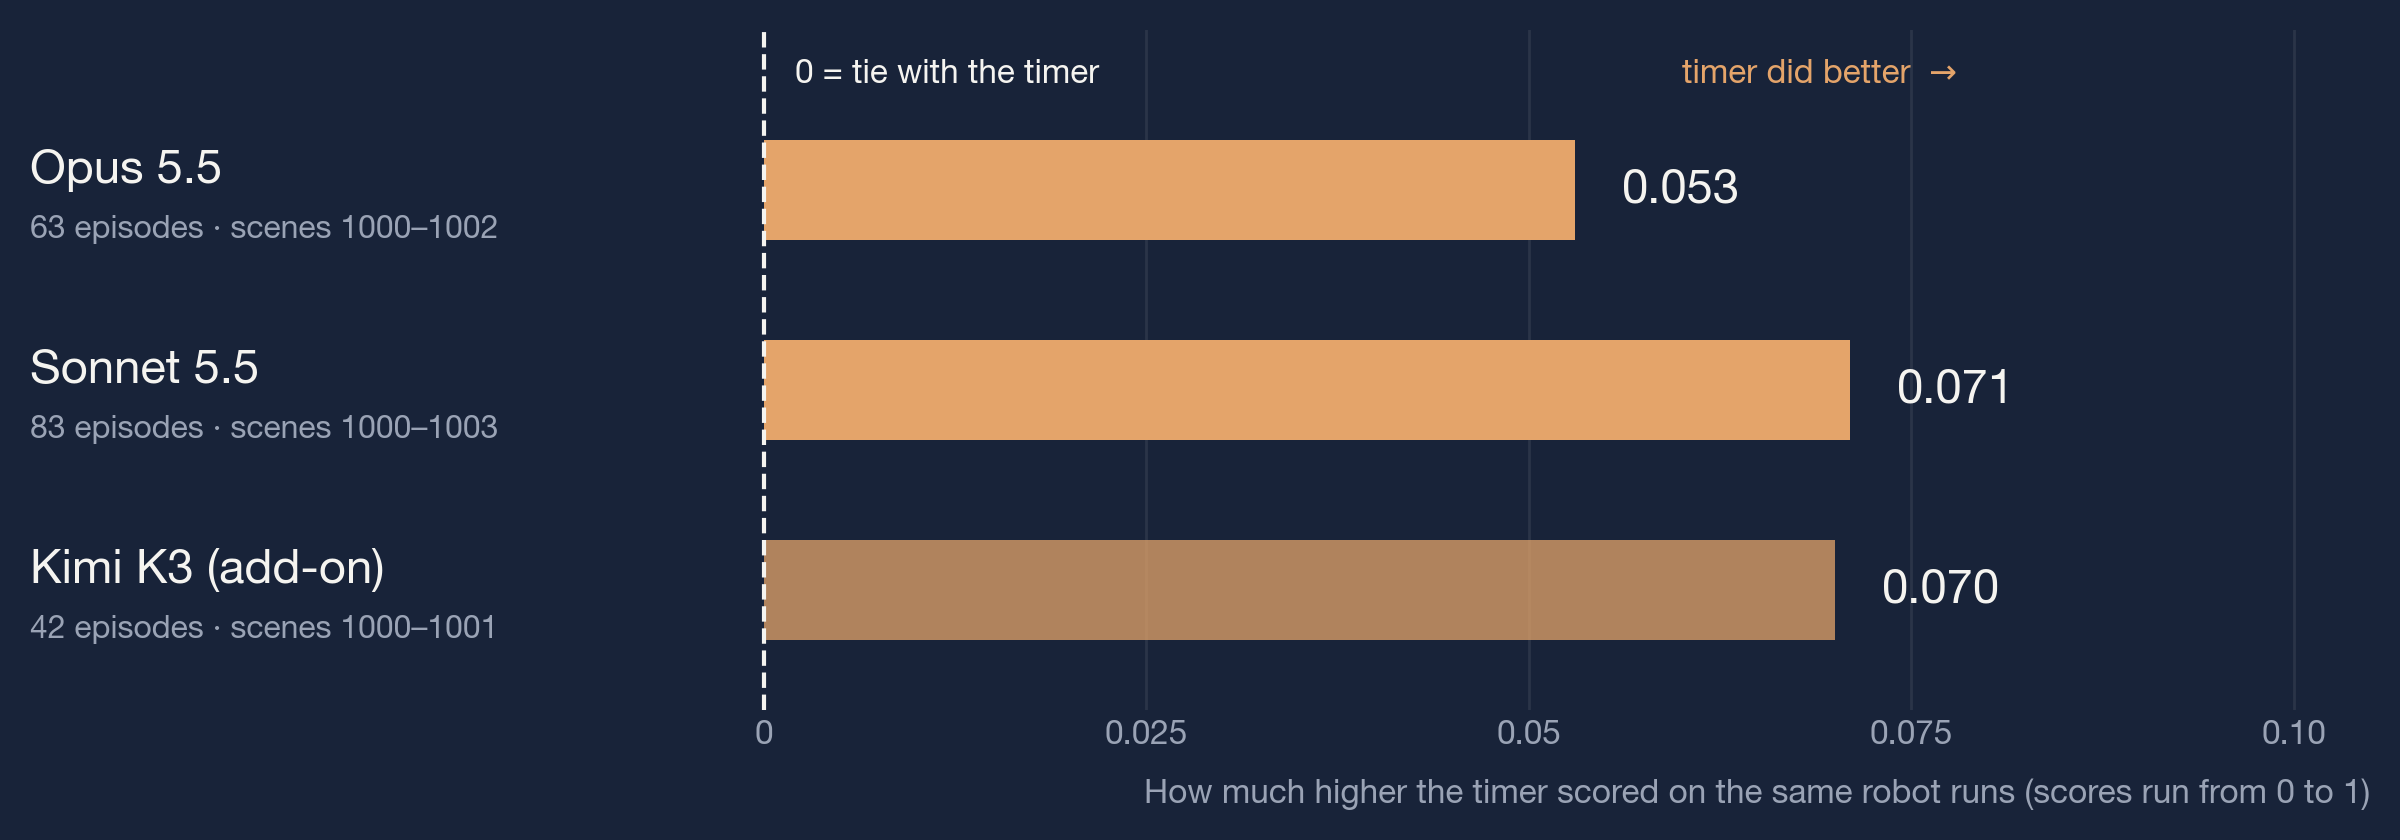
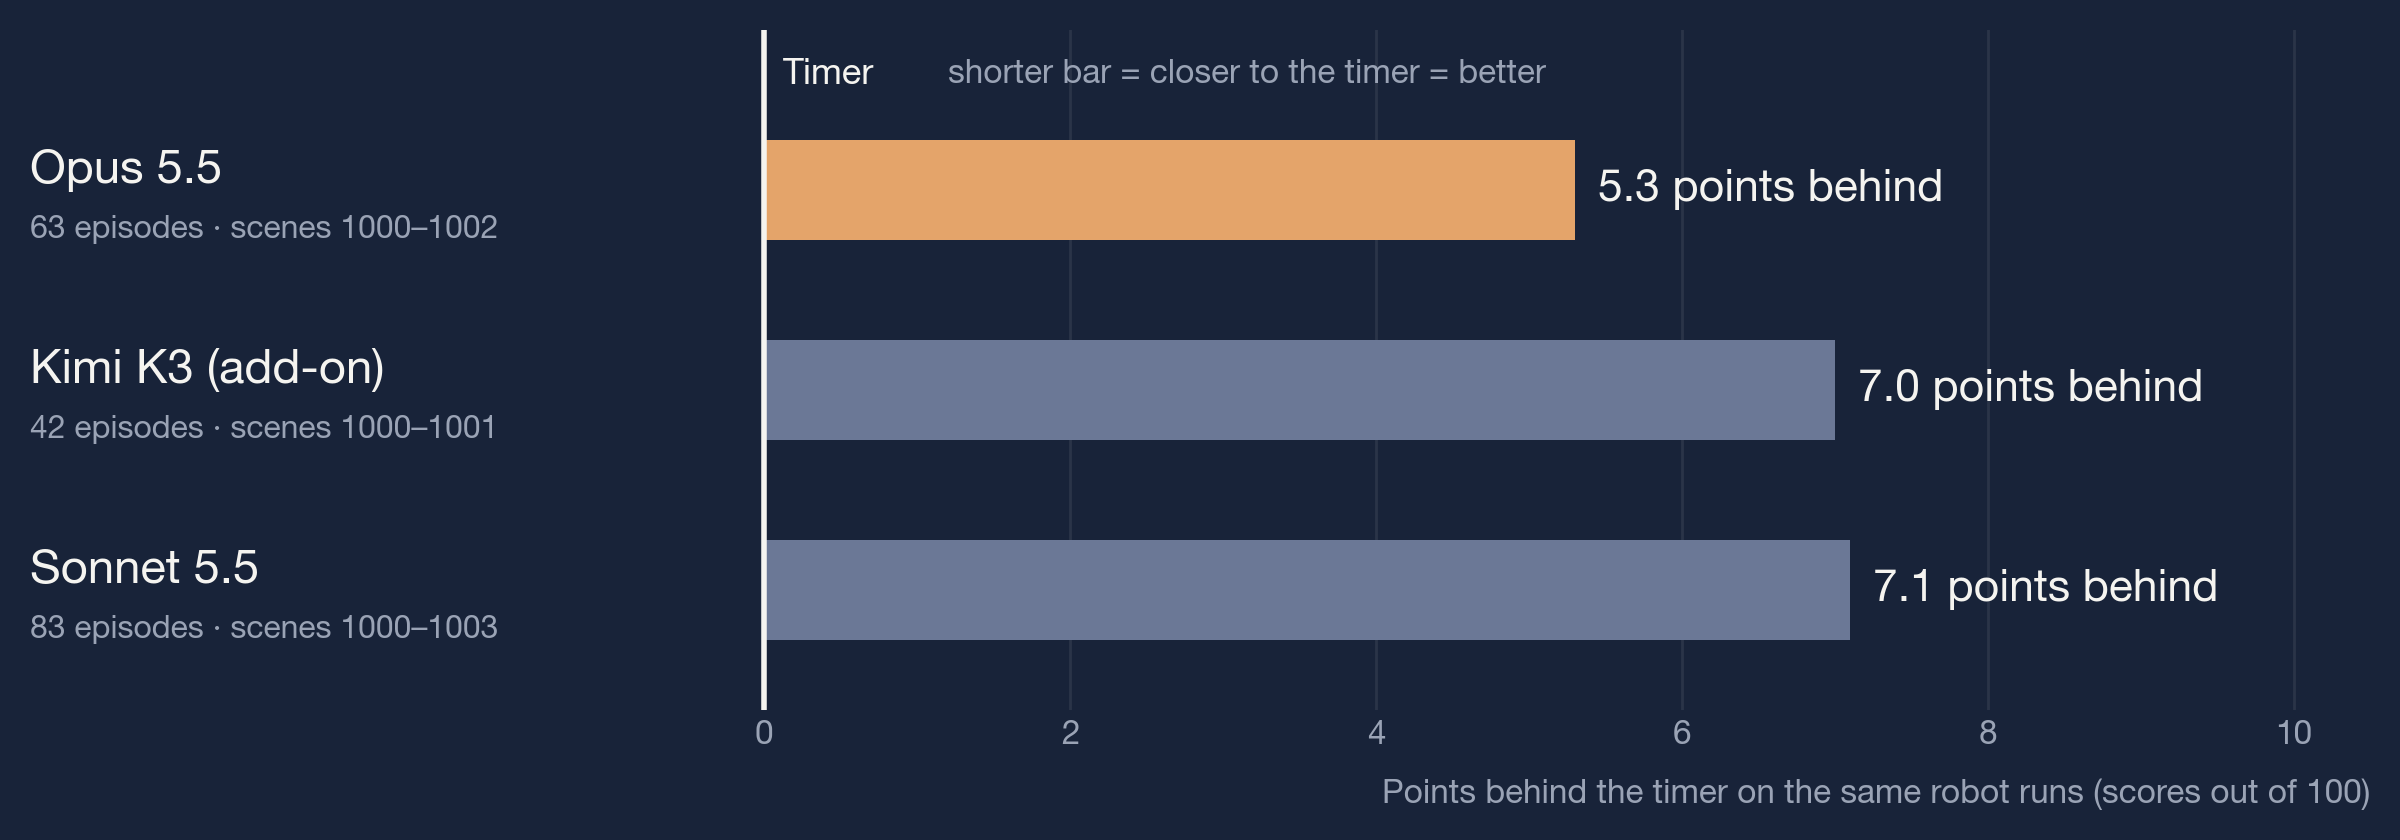
Slide figure: points behind the timer out of 100, best first

diff --git a/scripts/plot_final_regret.py b/scripts/plot_final_regret.py
@@ -1,7 +1,7 @@
 #!/usr/bin/env python3
-"""Draw the main-result slide figure: how much higher the fixed declaration rule scored than each supervisor on the
-same robot runs (the paired held-out regret, worded for the audience without that term and drawn without its interval),
-in the presentation deck's colors.
+"""Draw the main-result slide figure: how far each supervisor scored behind the fixed declaration rule on the same robot
+runs, in points out of 100 (the paired held-out regret x 100, worded for the audience without that term and drawn without
+its interval), best first, in the presentation deck's colors.
 
 The numbers are the reported results in docs/final_results.md: Opus from W2 (#8), Sonnet from W3 (`670e075`,
 docs/session_mode.md), Kimi K3 from results/w1/addon_kimi_score.txt.
@@ -24,7 +24,8 @@ ROWS = [
     ("Kimi K3 (add-on)", "42 episodes · scenes 1000–1001", 0.070, (0.014, 0.134)),
 ]
 
-BACKGROUND, GRID, TEXT, MUTED, ACCENT = "#182339", "#2a3448", "#f5f4f0", "#9aa3b5", "#e4a46a"
+BACKGROUND, GRID, TEXT, MUTED, ACCENT, OTHER = "#182339", "#2a3448", "#f5f4f0", "#9aa3b5", "#e4a46a", "#6b7896"
+LEFT, RIGHT = -4.8, 10.5
 
 
 def main():
@@ -33,27 +34,31 @@ def main():
     fig.patch.set_facecolor(BACKGROUND)
     ax.set_facecolor(BACKGROUND)
 
-    ys = list(range(len(ROWS)))[::-1]
-    for y, (label, detail, mean, _) in zip(ys, ROWS):
-        ax.barh(y, mean, height=0.5, color=ACCENT, alpha=0.75 if "add-on" in label else 1.0, zorder=2)
-        ax.text(mean + 0.003, y, f"{mean:.3f}", color=TEXT, fontsize=17, fontweight="bold", va="center")
-        ax.text(-0.048, y + 0.1, label, color=TEXT, fontsize=17, fontweight="bold", va="center", ha="left")
-        ax.text(-0.048, y - 0.2, detail, color=MUTED, fontsize=11.5, va="center", ha="left")
+    rows = sorted(ROWS, key=lambda r: r[2])  # closest to the timer first
+    best = rows[0][2]
+    ys = list(range(len(rows)))[::-1]
+    for y, (label, detail, regret, _) in zip(ys, rows):
+        points = 100 * regret
+        ax.barh(y, points, height=0.5, color=ACCENT if regret == best else OTHER, zorder=2)
+        ax.text(points + 0.15, y, f"{points:.1f} points behind", color=TEXT, fontsize=16, va="center")
+        ax.text(LEFT, y + 0.1, label, color=TEXT, fontsize=17, va="center", ha="left")
+        ax.text(LEFT, y - 0.2, detail, color=MUTED, fontsize=11.5, va="center", ha="left")
 
-    ax.axvline(0, color=TEXT, linestyle="--", linewidth=1.5, zorder=4)
-    ax.text(0.002, len(ROWS) - 0.42, "0 = tie with the timer", color=TEXT, fontsize=12, va="center")
-    ax.text(0.06, len(ROWS) - 0.42, "timer did better  →", color=ACCENT, fontsize=12, va="center")
+    ax.axvline(0, color=TEXT, linewidth=2, zorder=4)
+    ax.text(0.12, len(rows) - 0.42, "Timer", color=TEXT, fontsize=13, fontweight="bold", va="center")
+    ax.text(1.2, len(rows) - 0.42, "shorter bar = closer to the timer = better", color=MUTED, fontsize=12, va="center")
 
-    ax.set_xlim(-0.048, 0.105)
-    ax.set_ylim(-0.6, len(ROWS) - 0.2)
-    ax.set_xticks([0, 0.025, 0.05, 0.075, 0.10])
-    ax.set_xticklabels(["0", "0.025", "0.05", "0.075", "0.10"])
+    ax.set_xlim(LEFT, RIGHT)
+    ax.set_ylim(-0.6, len(rows) - 0.2)
+    ticks = [0, 2, 4, 6, 8, 10]
+    ax.set_xticks(ticks)
+    ax.set_xticklabels([str(t) for t in ticks])
     ax.tick_params(axis="x", colors=MUTED, labelsize=12, length=0)
     ax.set_yticks([])
     ax.spines[:].set_visible(False)
-    for x in (0.025, 0.05, 0.075, 0.10):
+    for x in ticks[1:]:
         ax.axvline(x, color=GRID, linewidth=1, zorder=1)
-    ax.set_xlabel("How much higher the timer scored on the same robot runs (scores run from 0 to 1)",
+    ax.set_xlabel("Points behind the timer on the same robot runs (scores out of 100)",
                   color=MUTED, fontsize=12, labelpad=10, loc="right")
 
     fig.tight_layout()
